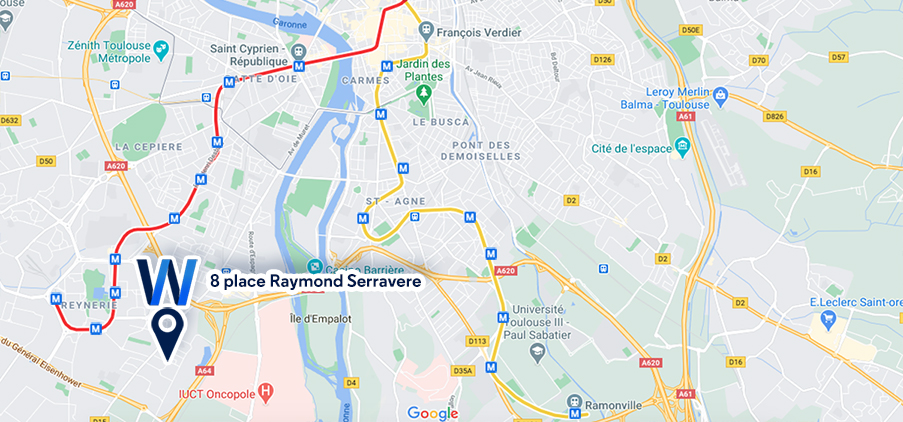
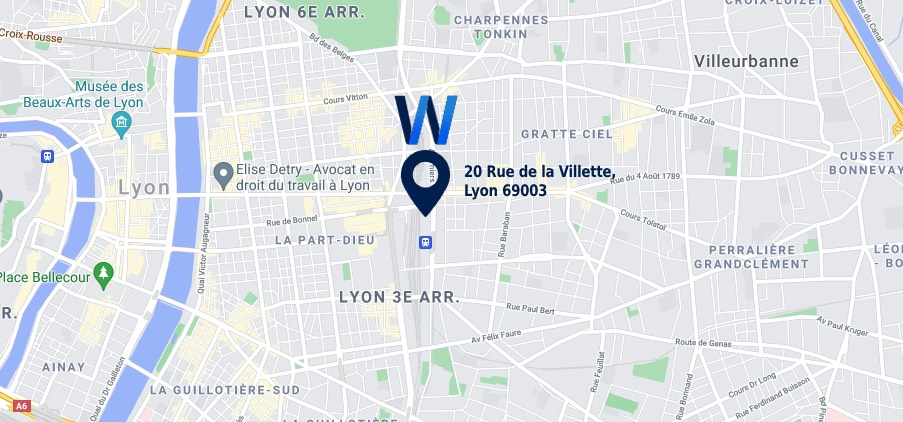
modify image for tel and map

diff --git a/pages/contact.html b/pages/contact.html
@@ -13,7 +13,7 @@ title: Contact
                 <div class="contact-person">
                     <h4>Rencontrez-nous</h4>
                     <p>Venez échanger avec nous dans <span class="blue-as-a-link pointer-cursor"
-                            onclick="toggleMapVisibility()">nos locaux toulousains!</span></p>
+                            onclick="toggleMapVisibility()">nos locaux lyonnais!</span></p>
                     <div>
                         <span class="blue-as-a-link pointer-cursor" onclick="toggleMapVisibility()">
                             <i class="far fa-calendar-alt pr-2"></i>
